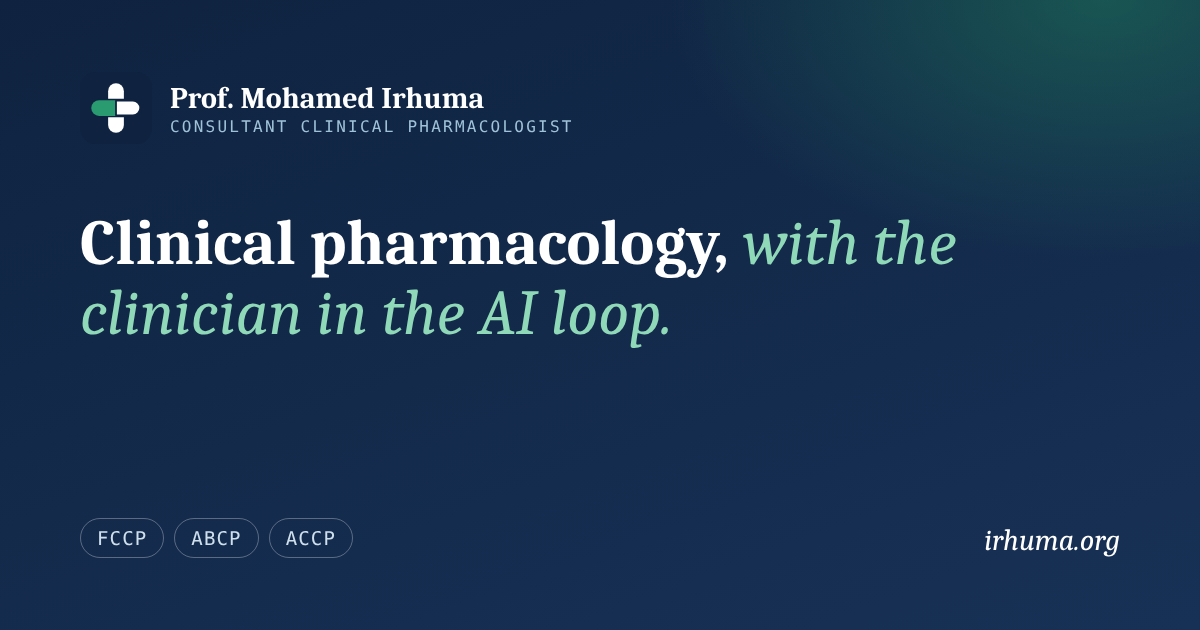
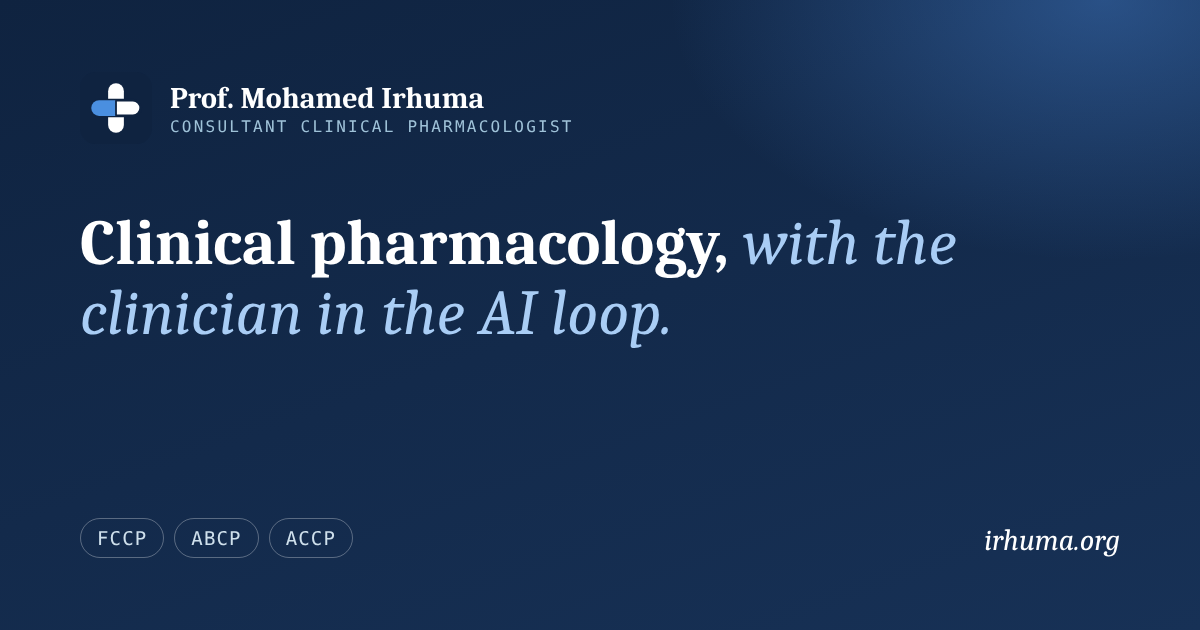
Add files via upload
Navy Theme update 08/11/2026

diff --git a/index.html b/index.html
@@ -6,19 +6,19 @@
 <meta property="og:title" content="Prof. Mohamed Irhuma · Clinical pharmacology, with the clinician in the AI loop"><meta property="og:description" content="Prof. Mohamed Irhuma, consultant clinical pharmacologist (FCCP, ABCP, ACCP) and digital health lead: medicolegal opinion, clinical AI governance, education and clinical decision-support tools.">
 <meta property="og:image" content="https://irhuma.org/og-share.png"><meta property="og:image:width" content="1200"><meta property="og:image:height" content="630">
 <meta name="twitter:card" content="summary_large_image"><meta name="twitter:image" content="https://irhuma.org/og-share.png">
-<link rel="preconnect" href="https://fonts.googleapis.com"><link rel="preconnect" href="https://fonts.gstatic.com" crossorigin><link rel="stylesheet" href="https://fonts.googleapis.com/css2?family=Source+Serif+4:ital,opsz,wght@0,8..60,400;0,8..60,600;1,8..60,400;1,8..60,600&family=Public+Sans:wght@400;500;600;700&family=IBM+Plex+Mono:wght@400;500&display=swap"><style>
+<script>try{var t=localStorage.getItem('irhuma-theme');if(t)document.documentElement.setAttribute('data-theme',t)}catch(e){}</script><link rel="preconnect" href="https://fonts.googleapis.com"><link rel="preconnect" href="https://fonts.gstatic.com" crossorigin><link rel="stylesheet" href="https://fonts.googleapis.com/css2?family=Source+Serif+4:ital,opsz,wght@0,8..60,400;0,8..60,600;1,8..60,400;1,8..60,600&family=Public+Sans:wght@400;500;600;700&family=IBM+Plex+Mono:wght@400;500&display=swap"><style>
 /* Layout: navy masthead + hero band, paper body with route-switched pages; green as the clinical accent */
 :root{
- --navy:#0F2340; --navy-2:#173156; --green:#14533F; --accent:#1F7A5A; --blue:#2C83C6; --red:#D33A31;
- --paper:#F3F6F5; --card:#FFFFFF; --ink:#13202D; --muted:#566573; --line:#D9E2DE; --tint:#E6F0EC;
+ --navy:#0F2340; --navy-2:#173156; --green:#1B3A66; --accent:#1E5AA8; --blue:#2C83C6; --red:#D33A31;
+ --paper:#FFFFFF; --card:#F6F9FD; --ink:#0F2340; --muted:#4E5F7A; --line:#DCE5F0; --tint:#E8F0FA;
  --todo-bg:#FFF4D6; --todo-fg:#7A5300; --todo-line:#E5B94B;
  --serif:"Source Serif 4",Georgia,"Times New Roman",serif; --sans:"Public Sans",system-ui,-apple-system,"Segoe UI",sans-serif;
  --mono:"IBM Plex Mono",ui-monospace,Menlo,Consolas,monospace;
 }
 @media (prefers-color-scheme:dark){:root:not([data-theme="light"]){
- --paper:#0B1521; --card:#111E2D; --ink:#E5ECEF; --muted:#9BAAB6; --line:#22344A; --tint:#12302A; --accent:#4DB48C;
+ --paper:#0D1B33; --card:#142A4D; --ink:#E8F0FA; --muted:#A9BDD8; --line:#24406A; --tint:#183660; --accent:#8DB8F0;
  --todo-bg:#3A2E0E; --todo-fg:#F5D27A; --todo-line:#8C6B1E; color-scheme:dark}}
-:root[data-theme="dark"]{--paper:#0B1521; --card:#111E2D; --ink:#E5ECEF; --muted:#9BAAB6; --line:#22344A; --tint:#12302A; --accent:#4DB48C;
+:root[data-theme="dark"]{--paper:#0D1B33; --card:#142A4D; --ink:#E8F0FA; --muted:#A9BDD8; --line:#24406A; --tint:#183660; --accent:#8DB8F0;
  --todo-bg:#3A2E0E; --todo-fg:#F5D27A; --todo-line:#8C6B1E; color-scheme:dark}
 *{box-sizing:border-box}
 body{background:var(--paper);color:var(--ink);font:16px/1.65 var(--sans);margin:0}
@@ -43,30 +43,30 @@ html.no-todo .todo{display:none}
 nav.tabs{display:flex;gap:2px;flex-wrap:wrap}
 nav.tabs a{color:#C9D7E3;text-decoration:none;font-size:14px;font-weight:500;padding:7px 11px;border-radius:6px}
 nav.tabs a:hover{color:#fff;background:rgba(255,255,255,.07)}
-nav.tabs a[aria-current="page"]{color:#fff;background:var(--green)}
+nav.tabs a[aria-current="page"]{color:#fff;background:#2A5596}
 nav.tabs a.ar{font-family:"Noto Naskh Arabic",var(--serif);border:1px solid rgba(255,255,255,.2)}
 
 /* hero */
-.hero{background:radial-gradient(900px 420px at 85% 10%,rgba(31,122,90,.35),transparent 60%),linear-gradient(180deg,var(--navy),var(--navy-2));color:#fff}
+.hero{background:radial-gradient(900px 420px at 85% 10%,rgba(70,130,210,.28),transparent 60%),linear-gradient(180deg,var(--navy),var(--navy-2));color:#fff}
 .hero .wrap{display:grid;grid-template-columns:1.25fr 1fr;gap:48px;align-items:center;padding-block:64px 56px}
-.hero .eyebrow{color:#7FD1AE}
+.hero .eyebrow{color:#9CC3F0}
 .hero h1{font-size:clamp(2.1rem,4.4vw,3.4rem);margin:14px 0 18px;color:#fff}
-.hero h1 em{color:#8FD9B8}
+.hero h1 em{color:#A9CDF5}
 .hero .lede{color:#C5D3DF}
 .cta{display:flex;gap:12px;flex-wrap:wrap;margin-top:28px}
 .btn{display:inline-flex;align-items:center;gap:8px;font:600 15px/1 var(--sans);padding:13px 18px;border-radius:8px;text-decoration:none;border:1px solid transparent;cursor:pointer}
-.btn.solid{background:#2A9A70;color:#fff}.btn.solid:hover{background:#238560}
+.btn.solid{background:#2F6FC2;color:#fff}.btn.solid:hover{background:#255EA9}
 .btn.ghost{color:#fff;border-color:rgba(255,255,255,.35)}.btn.ghost:hover{background:rgba(255,255,255,.08)}
 .rx{background:#FBFCFB;color:#13202D;border-radius:10px;padding:22px 24px;box-shadow:0 20px 50px rgba(0,0,0,.35);position:relative;min-width:0}
 .rx-head{display:flex;justify-content:space-between;align-items:baseline;border-bottom:2px solid #13202D;padding-bottom:8px;margin-bottom:6px}
 .rx-head span{font:600 2rem/1 var(--serif);font-style:italic}
-.rx-head small{font:500 11px var(--mono);letter-spacing:.08em;color:#566573;text-transform:uppercase}
+.rx-head small{font:500 11px var(--mono);letter-spacing:.08em;color:#4E5F7A;text-transform:uppercase}
 .rx dl{margin:0;display:grid;grid-template-columns:auto 1fr;gap:10px 16px;padding:10px 0}
-.rx dt{font:500 11px/1.6 var(--mono);text-transform:uppercase;letter-spacing:.08em;color:#1F7A5A}
+.rx dt{font:500 11px/1.6 var(--mono);text-transform:uppercase;letter-spacing:.08em;color:#1E5AA8}
 .rx dd{margin:0;font-size:14px;line-height:1.5}
 .rx .sig{border-top:1px dashed #9AA8B4;padding-top:12px;display:flex;justify-content:space-between;align-items:end;gap:12px}
 .rx .sig q{font:italic 400 1.35rem/1.2 var(--serif);quotes:none}
-.rx .sig small{font:400 11px var(--mono);color:#566573;text-align:right}
+.rx .sig small{font:400 11px var(--mono);color:#4E5F7A;text-align:right}
 .creds{background:var(--navy-2);border-top:1px solid rgba(255,255,255,.07)}
 .creds .wrap{display:flex;flex-wrap:wrap;gap:8px;padding-block:14px}
 .creds span{font:500 12px/1 var(--mono);color:#CFE0EC;border:1px solid rgba(255,255,255,.18);padding:6px 9px;border-radius:999px}
@@ -122,10 +122,10 @@ main .page{padding-block:56px 72px}
 .svc h3{font-size:1.25rem;margin-bottom:6px}
 .svc .for{font-size:13px;color:var(--muted);margin:0 0 12px}
 .svc ul{margin:0;padding-left:18px;font-size:15px;display:grid;gap:6px}
-.contact{background:var(--green);color:#fff}
+.contact{background:var(--navy-2);color:#fff}
 .contact .wrap{display:grid;grid-template-columns:1.3fr 1fr;gap:32px;align-items:center;padding-block:48px}
 .contact h2{color:#fff;font-size:clamp(1.6rem,3vw,2.2rem)}
-.contact p{color:#D5EBE1;margin:10px 0 0;max-width:60ch}
+.contact p{color:#D6E4F5;margin:10px 0 0;max-width:60ch}
 .contact .box{background:rgba(0,0,0,.18);border-radius:10px;padding:18px 20px;display:grid;gap:10px}
 .contact .box a{color:#fff;font-weight:600}
 .copy{font:500 12px var(--mono);background:transparent;color:#fff;border:1px solid rgba(255,255,255,.4);border-radius:6px;padding:5px 9px;cursor:pointer}
@@ -141,12 +141,12 @@ footer button{font:500 12px var(--mono);background:transparent;color:#A9BCCB;bor
 @media (prefers-reduced-motion:no-preference){.page:not([hidden]){animation:in .35s ease-out}@keyframes in{from{opacity:.4;transform:translateY(6px)}to{opacity:1;transform:none}}}
 
 .idcard{background:linear-gradient(165deg,var(--navy),var(--navy-2));color:#fff;border-radius:12px;padding:24px;display:grid;gap:14px;align-content:start;position:relative;overflow:hidden}
-.idcard::after{content:"";position:absolute;inset:auto -40px -40px auto;width:160px;height:160px;border-radius:50%;background:radial-gradient(circle,rgba(42,154,112,.45),transparent 70%)}
+.idcard::after{content:"";position:absolute;inset:auto -40px -40px auto;width:160px;height:160px;border-radius:50%;background:radial-gradient(circle,rgba(90,150,230,.40),transparent 70%)}
 .idcard .mono{width:84px;height:84px;border-radius:50%;border:1.5px solid rgba(255,255,255,.35);display:grid;place-items:center;font:600 2rem/1 var(--serif);letter-spacing:.02em;color:#fff;background:rgba(255,255,255,.04)}
 .idcard b{font:600 1.15rem/1.3 var(--serif)}
 .idcard small{font:500 11px/1.6 var(--mono);letter-spacing:.08em;text-transform:uppercase;color:#9FC2D8}
 .idcard dl{margin:0;display:grid;gap:8px;font-size:14px}
-.idcard dt{font:500 10.5px/1.4 var(--mono);letter-spacing:.1em;text-transform:uppercase;color:#7FD1AE}
+.idcard dt{font:500 10.5px/1.4 var(--mono);letter-spacing:.1em;text-transform:uppercase;color:#9CC3F0}
 .idcard dd{margin:0;color:#DCE7EF}
 .idlinks{display:flex;gap:8px;flex-wrap:wrap;position:relative;z-index:1}
 .idlinks a,.pill-link{font:600 13px/1 var(--sans);padding:8px 11px;border-radius:6px;text-decoration:none}
@@ -154,16 +154,16 @@ footer button{font:500 12px var(--mono);background:transparent;color:#A9BCCB;bor
 .idlinks a:hover{background:rgba(255,255,255,.08)}
 .pill-link{border:1px solid var(--line);color:var(--accent);background:var(--card);display:inline-block}
 .pill-link:hover{border-color:var(--accent)}
-.pgx{background:#FBFCFB;color:#13202D;border-radius:10px;padding:18px 20px;border:1px solid #D9E2DE;min-width:0}
-.pgx .hd{display:flex;justify-content:space-between;gap:10px;font:500 11px var(--mono);letter-spacing:.08em;text-transform:uppercase;color:#566573;border-bottom:1px solid #D9E2DE;padding-bottom:8px}
+.pgx{background:#FBFCFB;color:#13202D;border-radius:10px;padding:18px 20px;border:1px solid #DCE5F0;min-width:0}
+.pgx .hd{display:flex;justify-content:space-between;gap:10px;font:500 11px var(--mono);letter-spacing:.08em;text-transform:uppercase;color:#4E5F7A;border-bottom:1px solid #DCE5F0;padding-bottom:8px}
 .pgx .gene{display:flex;gap:8px;flex-wrap:wrap;margin:12px 0 8px}
-.pgx .gene span{font:500 12px var(--mono);background:#E6F0EC;color:#14533F;padding:4px 8px;border-radius:4px}
+.pgx .gene span{font:500 12px var(--mono);background:#E8F0FA;color:#1B3A66;padding:4px 8px;border-radius:4px}
 .pgx .gene span.flag{background:#FBE3E1;color:#9B231C}
 .pgx h4{font:600 1.05rem/1.35 var(--serif);margin:0 0 8px}
 .pgx dl{display:grid;grid-template-columns:auto 1fr;gap:6px 12px;margin:0;font-size:13.5px;line-height:1.5}
-.pgx dt{font:500 10.5px/1.6 var(--mono);text-transform:uppercase;letter-spacing:.08em;color:#1F7A5A}
+.pgx dt{font:500 10.5px/1.6 var(--mono);text-transform:uppercase;letter-spacing:.08em;color:#1E5AA8}
 .pgx dd{margin:0}
-.pgx .note{font-size:12px;color:#566573;margin:10px 0 0;border-top:1px dashed #9AA8B4;padding-top:8px}
+.pgx .note{font-size:12px;color:#4E5F7A;margin:10px 0 0;border-top:1px dashed #9AA8B4;padding-top:8px}
 .cat-filters{display:flex;gap:8px;flex-wrap:wrap;margin:16px 0 18px}
 .cat-filters button{font:500 13px var(--sans);border:1px solid var(--line);background:var(--card);color:var(--ink);padding:7px 12px;border-radius:999px;cursor:pointer}
 .cat-filters button[aria-pressed="true"]{background:var(--green);border-color:var(--green);color:#fff}
@@ -192,22 +192,27 @@ footer button{font:500 12px var(--mono);background:transparent;color:#A9BCCB;bor
 .steps h4{font:600 1.05rem var(--serif);margin:0 0 4px}.steps p{margin:0;font-size:14px;color:var(--muted)}
 .indep{border-left:3px solid var(--accent);padding:6px 0 6px 16px;margin:28px 0 0;color:var(--muted);max-width:72ch}
 footer .wrap{padding-bottom:max(22px,env(safe-area-inset-bottom,0px))}
+.theme{display:inline-grid;place-items:center;background:transparent;color:#C9D7E3;border:1px solid rgba(255,255,255,.22);border-radius:6px;padding:6px 9px;cursor:pointer;flex:0 0 auto}
+.theme:hover{color:#fff;background:rgba(255,255,255,.07)}
+.contact{border-top:1px solid rgba(255,255,255,.08)}
+main .page{padding-block:52px 68px}
+.card{transition:border-color .15s}.card:hover{border-color:color-mix(in srgb,var(--accent) 35%,var(--line))}
 main .page{scroll-margin-top:72px}
 @media (prefers-reduced-motion:no-preference){.page:not([hidden]){animation:rise .35s ease-out}@keyframes rise{from{transform:translateY(6px)}to{transform:none}}}
 @media (max-width:860px){.mast .wrap{gap:8px}nav.tabs{flex-wrap:nowrap;overflow-x:auto;width:100%;scrollbar-width:none;-webkit-overflow-scrolling:touch;padding-bottom:2px}nav.tabs::-webkit-scrollbar{display:none}nav.tabs a{white-space:nowrap;flex:0 0 auto}main .page{scroll-margin-top:110px}}
 @media (max-width:860px){.catalogue{grid-template-columns:repeat(2,minmax(0,1fr))}.feature.book-f{grid-template-columns:1fr}.steps{grid-template-columns:1fr}}
 @media (max-width:560px){.catalogue{grid-template-columns:1fr}}
[2 lines of base64/hex data omitted]
 <header class="hero"><div class="wrap"><div><p class="eyebrow">Consultant clinical pharmacologist · Digital health lead</p>
 <h1>Clinical pharmacology, <em>with the clinician in the AI loop.</em></h1>
 <p class="lede">Prof. Mohamed Irhuma translates pharmacological evidence into safe prescribing, defensible medicolegal opinion and clinical AI that shows its reasoning.</p>
 <div class="cta"><a class="btn solid" href="#services">Expertise &amp; services</a><a class="btn ghost" href="#tools">Explore AI tools</a></div></div>
 <div class="rx" aria-label="Practice summary"><div class="rx-head"><span>Rx</span><small>Consult summary</small></div>
 <dl><dt>Indication</dt><dd>Rational prescribing, pharmacovigilance, medicolegal review, clinical AI governance</dd>
-<dt>Evidence</dt><dd>FCCP · ABCP · ACCP · PMP · Co-editor of the national medicines formulary for a decade</dd>
+<dt>Evidence</dt><dd>FCCP · PMP · ABCP · ACCP · Co-editor of the national medicines formulary for a decade</dd>
 <dt>Method</dt><dd>Glass-box reasoning. Source, logic, patient factors and uncertainty stated.</dd>
 <dt>Reach</dt><dd>RSA · UK · KSA · US · EU · Middle East</dd></dl>
-<div class="sig"><q>Think before you ink.</q><small>Prof. M. Irhuma<br>MBBCh, FCCP, ACCP, ABCP</small></div></div></div></header>
+<div class="sig"><q>Think before you ink.</q><small>Prof. M. Irhuma<br>MBBCh, FCCP, ABCP, ACCP</small></div></div></div></header>
 <div class="creds"><div class="wrap"><span>MBBCh (UoT)</span><span>FCCP FC Clin Pharm(SA)</span><span>Cert. Hospital Management</span><span>PGCert Health Informatics (Leeds)</span><span>PMP (PMI)</span><span>MD Clin Pharm</span><span>ABCP (USA)</span><span>ACCP (USA)</span></div></div><main><section class="page" id="bio"><div class="wrap">
 <div class="page-head"><p class="eyebrow">Biography</p><h2>Specialist clinical pharmacologist, <em>governing clinical AI.</em></h2></div>
 <div class="bio">
@@ -279,7 +284,7 @@ main .page{scroll-margin-top:72px}
 <div class="steps"><div><h4>Enquiry &amp; conflict check</h4><p>Send a short outline. Conflicts of interest are checked before any documents are reviewed.</p></div>
 <div><h4>Scope &amp; terms</h4><p>Questions, deliverables, timeline and fees are agreed in writing.</p></div>
 <div><h4>Review &amp; report</h4><p>Evidence-based analysis with sources and reasoning stated, delivered as a report, briefing or tool.</p></div></div>
-<p class="indep">In medicolegal matters, opinions are independent and objective. The expert’s overriding duty is to the court or tribunal, whichever party gives instructions.</p></div></section></main><section class="contact"><div class="wrap"><div><p class="eyebrow" style="color:#A8E2C9">Contact</p>
+<p class="indep">In medicolegal matters, opinions are independent and objective. The expert’s overriding duty is to the court or tribunal, whichever party gives instructions.</p></div></section></main><section class="contact"><div class="wrap"><div><p class="eyebrow" style="color:#A9CDF5">Contact</p>
 <h2>Clinical pharmacology, medicolegal and digital health enquiries</h2>
 <p>Expert opinion, advisory work, speaking requests and tool demonstrations. Based in Johannesburg, working across Saudi Arabia, Libya, the UK, the EU and the US.</p></div>
 <div class="box"><div><small style="opacity:.8">Prof. Irhuma Inc.</small><br><a href="mailto:info@irhuma.org">info@irhuma.org</a> <button class="copy" type="button" data-copy="info@irhuma.org">Copy</button></div></div></div></section>
@@ -296,6 +301,7 @@ main .page{scroll-margin-top:72px}
  if(q)q.addEventListener('input',filt);
  document.querySelectorAll('.cat-filters button').forEach(function(b){b.addEventListener('click',function(){cat=b.dataset.cat;
   document.querySelectorAll('.cat-filters button').forEach(function(x){x.setAttribute('aria-pressed',x===b?'true':'false')});filt();});});
+ var tb=document.getElementById('themeBtn');if(tb)tb.addEventListener('click',function(){var r=document.documentElement,c=r.getAttribute('data-theme')||(matchMedia('(prefers-color-scheme: dark)').matches?'dark':'light'),n=c==='dark'?'light':'dark';r.setAttribute('data-theme',n);try{localStorage.setItem('irhuma-theme',n)}catch(e){}});
  document.querySelectorAll('[data-copy]').forEach(function(b){b.addEventListener('click',function(){var t=b.dataset.copy;
   (navigator.clipboard?navigator.clipboard.writeText(t):Promise.reject()).then(function(){b.textContent='Copied'},function(){b.textContent=t});});});
 })();

diff --git a/irhuma_bio_ar.html b/irhuma_bio_ar.html
@@ -1,31 +1,31 @@
 <!doctype html><html lang="ar" dir="rtl"><head><meta charset="utf-8"><meta name="viewport" content="width=device-width,initial-scale=1,viewport-fit=cover"><meta name="description" content="أ.د. محمد إرحومة، استشاري علم الأدوية السريري وقائد الصحة الرقمية"><meta property="og:image" content="https://irhuma.org/og-share.png"><link rel="icon" type="image/svg+xml" href="favicon.svg"><title>أ.د. محمد إرحومة</title>
 <meta name="claude:viewport-fit-sides" content="cover">
[2 lines of base64/hex data omitted]
 <link rel="stylesheet" href="https://fonts.googleapis.com/css2?family=Noto+Naskh+Arabic:wght@500;700&family=IBM+Plex+Sans+Arabic:wght@400;500;600&family=IBM+Plex+Mono:wght@500&display=swap">
-<style>
+<script>try{var t=localStorage.getItem('irhuma-theme');if(t)document.documentElement.setAttribute('data-theme',t)}catch(e){}</script><style>
 /* Layout: RTL one-page profile; navy band, Rx-style summary card, paper body */
-:root{--navy:#0F2340;--navy-2:#173156;--green:#14533F;--accent:#1F7A5A;--paper:#F3F6F5;--card:#FFFFFF;--ink:#13202D;--muted:#566573;--line:#D9E2DE;--tint:#E6F0EC;
+:root{--navy:#0F2340;--navy-2:#173156;--green:#1B3A66;--accent:#1E5AA8;--paper:#FFFFFF;--card:#F6F9FD;--ink:#0F2340;--muted:#4E5F7A;--line:#DCE5F0;--tint:#E8F0FA;
  --disp:"Noto Naskh Arabic","Amiri",serif;--body:"IBM Plex Sans Arabic",Tahoma,"Segoe UI",sans-serif;--mono:"IBM Plex Mono",ui-monospace,monospace}
-@media (prefers-color-scheme:dark){:root:not([data-theme="light"]){--paper:#0B1521;--card:#111E2D;--ink:#E5ECEF;--muted:#9BAAB6;--line:#22344A;--tint:#12302A;--accent:#4DB48C;color-scheme:dark}}
-:root[data-theme="dark"]{--paper:#0B1521;--card:#111E2D;--ink:#E5ECEF;--muted:#9BAAB6;--line:#22344A;--tint:#12302A;--accent:#4DB48C;color-scheme:dark}
+@media (prefers-color-scheme:dark){:root:not([data-theme="light"]){--paper:#0D1B33;--card:#142A4D;--ink:#E8F0FA;--muted:#A9BDD8;--line:#24406A;--tint:#183660;--accent:#8DB8F0;color-scheme:dark}}
+:root[data-theme="dark"]{--paper:#0D1B33;--card:#142A4D;--ink:#E8F0FA;--muted:#A9BDD8;--line:#24406A;--tint:#183660;--accent:#8DB8F0;color-scheme:dark}
 *{box-sizing:border-box}
 body{background:var(--paper);color:var(--ink);font:17px/1.9 var(--body);margin:0}
 .wrap{max-width:980px;margin:0 auto;padding-left:max(16px,env(safe-area-inset-left,0px));padding-right:max(16px,env(safe-area-inset-right,0px))}
 a{color:var(--accent)}
-header{background:radial-gradient(700px 360px at 10% 0%,rgba(31,122,90,.35),transparent 60%),linear-gradient(180deg,var(--navy),var(--navy-2));color:#fff}
+header{background:radial-gradient(700px 360px at 10% 0%,rgba(70,130,210,.28),transparent 60%),linear-gradient(180deg,var(--navy),var(--navy-2));color:#fff}
 header .wrap{padding-block:28px 52px}
 .top{display:flex;justify-content:space-between;align-items:center;gap:12px;margin-bottom:36px}
 .top img{width:40px}
 .top a{color:#C9D7E3;font:500 14px var(--body);text-decoration:none;border:1px solid rgba(255,255,255,.25);padding:6px 12px;border-radius:6px}
 .hero{display:grid;grid-template-columns:1.3fr 1fr;gap:40px;align-items:center}
-.eye{color:#8FD9B8;font:500 14px var(--body);margin:0}
+.eye{color:#A9CDF5;font:500 14px var(--body);margin:0}
 h1{font:700 clamp(2.2rem,5vw,3.2rem)/1.3 var(--disp);margin:8px 0 6px}
 .sub{color:#C5D3DF;margin:0;font-size:1.1rem}
 .rx{background:#FBFCFB;color:#13202D;border-radius:10px;padding:20px 22px;box-shadow:0 20px 50px rgba(0,0,0,.35);min-width:0}
 .rx-h{display:flex;justify-content:space-between;align-items:baseline;border-bottom:2px solid #13202D;padding-bottom:6px}
-.rx-h b{font:italic 600 1.8rem/1 Georgia,serif} .rx-h small{font-size:13px;color:#566573}
+.rx-h b{font:italic 600 1.8rem/1 Georgia,serif} .rx-h small{font-size:13px;color:#4E5F7A}
 .rx dl{display:grid;grid-template-columns:auto 1fr;gap:6px 14px;margin:12px 0}
-.rx dt{color:#1F7A5A;font-weight:600;font-size:14px} .rx dd{margin:0;font-size:15px;line-height:1.6}
+.rx dt{color:#1E5AA8;font-weight:600;font-size:14px} .rx dd{margin:0;font-size:15px;line-height:1.6}
 .rx q{display:block;border-top:1px dashed #9AA8B4;padding-top:10px;font:700 1.35rem/1.5 var(--disp);quotes:none}
 main .wrap{padding-block:48px 64px;display:grid;gap:40px}
 h2{font:700 1.6rem/1.4 var(--disp);margin:0 0 12px}
@@ -36,18 +36,18 @@ h2{font:700 1.6rem/1.4 var(--disp);margin:0 0 12px}
 .chips{display:flex;flex-wrap:wrap;gap:8px}
 .chips span{background:var(--tint);color:var(--accent);padding:6px 12px;border-radius:999px;font-size:15px;font-weight:500}
 .creds{font:500 13px/2 var(--mono);color:var(--muted)}
-.contact{background:var(--green);color:#fff;border-radius:12px;padding:26px;display:grid;gap:8px}
+.contact{background:var(--navy-2);color:#fff;border-radius:12px;padding:26px;display:grid;gap:8px}
 .contact h2{color:#fff} .contact a{color:#fff;font-weight:600}
 @media (max-width:760px){.hero{grid-template-columns:1fr}.stats{grid-template-columns:repeat(2,minmax(0,1fr))}}
 </style></head><body>
 <div dir="rtl" lang="ar">
 <header><div class="wrap">
[2 lines of base64/hex data omitted]
  <div class="hero"><div><p class="eye">استشاري علم الأدوية السريري · قائد الصحة الرقمية</p>
   <h1>أ.د. محمد إرحومة</h1><p class="sub">الطبيب في حلقة الذكاء الاصطناعي</p></div>
   <div class="rx"><div class="rx-h"><b dir="ltr">Rx</b><small>ملخص الاستشارة</small></div>
    <dl><dt>الاختصاص</dt><dd>الوصف الرشيد للأدوية، اليقظة الدوائية، المراجعة الطبية القانونية، حوكمة الذكاء الاصطناعي السريري</dd>
-   <dt>الاعتماد</dt><dd>زمالة كلية علماء الأدوية السريريين (FCCP) · المجلس الأمريكي لعلم الأدوية السريري (ABCP) · الكلية الأمريكية لعلم الأدوية السريري (ACCP) · PMP</dd>
+   <dt>الاعتماد</dt><dd>زمالة كلية علماء الأدوية السريريين (FCCP) · PMP · المجلس الأمريكي لعلم الأدوية السريري (ABCP) · الكلية الأمريكية لعلم الأدوية السريري (ACCP)</dd>
    <dt>المقر</dt><dd>جوهانسبرغ، جنوب أفريقيا · يعمل مع المملكة المتحدة والسعودية والولايات المتحدة والاتحاد الأوروبي</dd></dl>
    <q>«فكّر قبل أن تكتب الوصفة»</q></div></div>
 </div></header>
